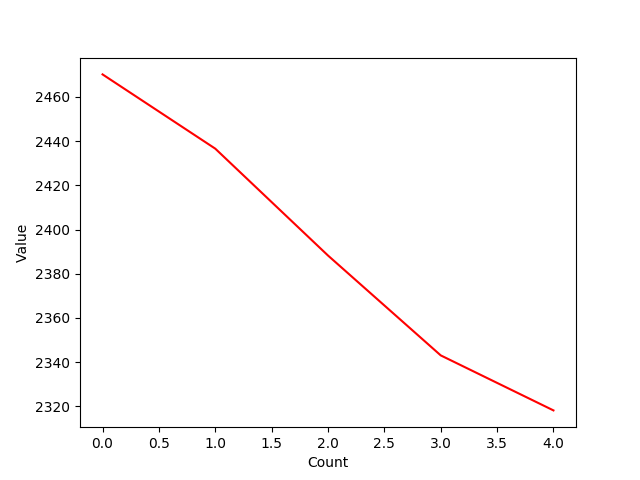
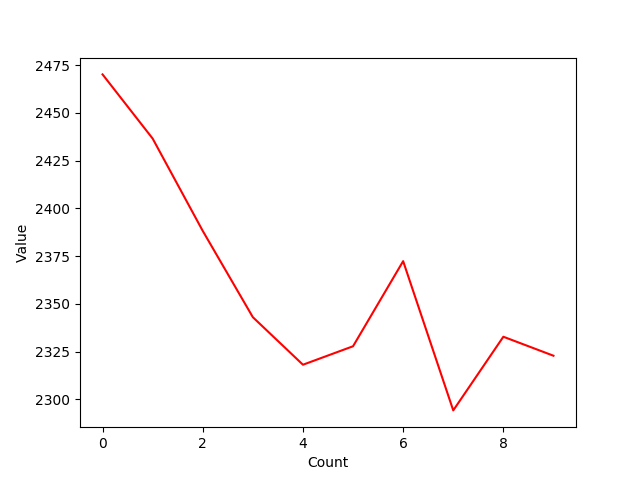
Automated Commision

diff --git a/prediction/sequential.py b/prediction/sequential.py
@@ -79,9 +79,8 @@ def sequential_prediction(model=None, stock_id=None, date=None, graphing=True, l
         bias = regression_momentum_bias(timeseries, WEEK)
     else:
         bias = vix_momentum_bias(timeseries, date, WEEK, MONTH)
-    print(bias)
 
-    for count in range(5):
+    for count in range(10):
         trend = moving_average(timeseries, MONTH)
         matrix = sampling(trend, 0, 2, STANDARD_SAMPLING_RANGE)
         timeseries.set_sampled_matrix(matrix)
@@ -111,10 +110,8 @@ def sequential_prediction(model=None, stock_id=None, date=None, graphing=True, l
 if __name__ == "__main__":
     os.system('clear')
     stock, prediction = sequential_prediction()
-    
-    print(stock[len(stock) - 1])
 
     print("\n\nEstimated Stock Matrix = ", prediction)
-    print("Estimated Change: ", stock[len(stock) - 1] - prediction[len(prediction) - 1], "\n\n")
+    print("Estimated Change: ", prediction[len(prediction) - 1] - stock[len(stock) - 1], "\n\n")
 
     git_update()
